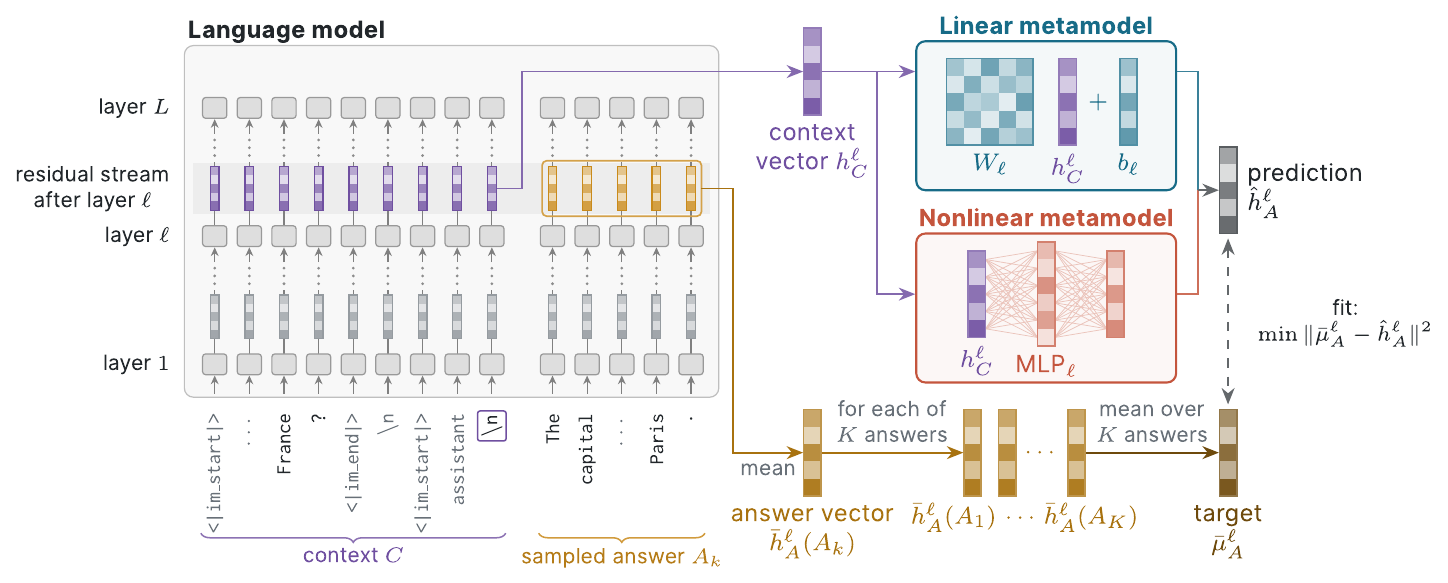
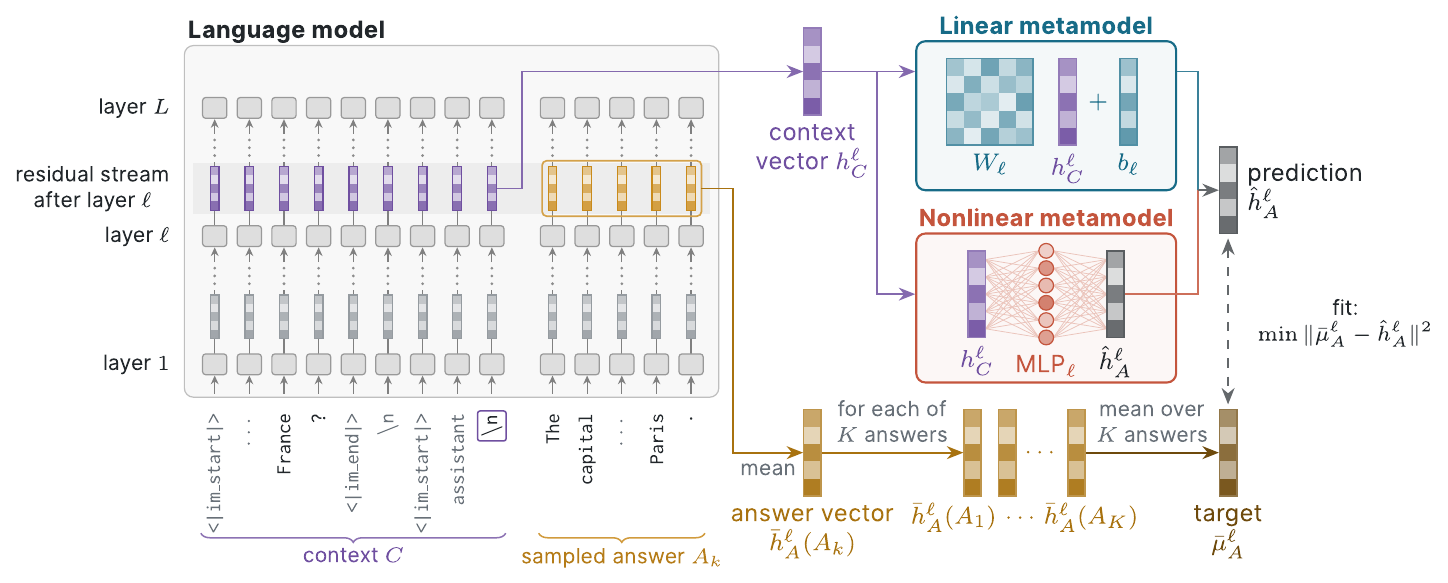
paper fig1 rev 16: MLP hidden units as circles, MLP output column = the prediction (TikZ source + preview PNG)
Generated with [Claude Code](https://claude.ai/code)
via [Happy](https://happy.engineering)

Changed region(s): [[0.6837, 0.4014, 0.808, 0.6484]]

diff --git a/docs/paper_context_answer_map/fig1_schematic.tex b/docs/paper_context_answer_map/fig1_schematic.tex
@@ -1,4 +1,4 @@
-% Figure 1: context-to-answer prediction pipeline (rev 15, 2026-09-03).
+% Figure 1: context-to-answer prediction pipeline (rev 16, 2026-09-03).
 % Compile standalone: pdflatex fig1_schematic.tex
 % THEN convert text to outlines before copying to Overleaf (REQUIRED):
 %   gs -q -dNOPAUSE -dBATCH -sDEVICE=pdfwrite -dNoOutputFonts -dCompatibilityLevel=1.5 \
@@ -29,9 +29,11 @@
 % over K) darkest #6E4A0C. Vectors outside the model use stronger cell shades.
 % Rev 15 (Thomas): the context vector forks into TWO metamodel boxes, linear (teal:
 % matrix W_l times h_C plus bias b_l) and nonlinear (terracotta: a small MLP glyph,
-% input column -> hidden column -> output column with dense connections). Both outputs
-% merge into one prediction (ink, branch-neutral), which is fit to the target. The
-% answer row sits below both boxes; the figure height is unchanged.
+% input column -> hidden layer of circular units -> output column, dense connections).
+% Rev 16 (Thomas): the MLP's output column IS the prediction: same ink color, same
+% symbol h-hat, wired directly to the merged prediction outside the box. Both branch
+% outputs merge into that one prediction, which is fit to the target. The answer row
+% sits below both boxes; the figure height is unchanged.
 \documentclass[tikz,border=4pt]{standalone}
 \usepackage[type1]{inter}
 \renewcommand{\familydefault}{\sfdefault}
@@ -61,16 +63,6 @@
   \node[inner sep=0pt, minimum width=0.20cm, minimum height=1.0cm] (#1) at (#2,#3) {};
 }
 \newcommand{\colvec}[4]{\colvecs{#1}{#2}{#3}{#4}{42,16,60,26,68}}
-% 6-cell column (the MLP hidden layer), 0.20 x 1.20 cm, centered at (x,y)
-\newcommand{\colvecsix}[4]{%
-  \begin{scope}[shift={(#2,#3)}]
-    \foreach \s [count=\r from 0] in {40,22,64,30,56,18} {
-      \fill[#4!\s] (-0.10,{0.60-(\r+1)*0.20}) rectangle (0.10,{0.60-\r*0.20});
-    }
-    \draw[#4!75, line width=0.5pt] (-0.10,-0.60) rectangle (0.10,0.60);
-  \end{scope}
-  \node[inner sep=0pt, minimum width=0.20cm, minimum height=1.2cm] (#1) at (#2,#3) {};
-}
 % ---- small residual-stream state inside the model: 5 SQUARE cells, 0.10 x 0.50 cm ---
 % \minivec{<x>}{<y>}{<color>}{<shade list>}{<outline>}
 \newcommand{\minivec}[5]{%
@@ -214,18 +206,24 @@
       minimum width=3.0cm, minimum height=1.72cm, inner sep=0pt] (nl) at (10.40,2.72) {};
 \node[lbl, text=terra, anchor=south, font=\fontsize{8}{9.5}\selectfont\bfseries]
   at (10.40,3.62) {Nonlinear metamodel};
-% dense connections first (drawn under the columns): input (5 cells) -> hidden (6) -> output (5)
+% dense connections first (drawn under the columns): input (5 cells) -> 6 hidden units -> output (5)
 \foreach \yi in {3.28,3.08,2.88,2.68,2.48} {
   \foreach \yh in {3.38,3.18,2.98,2.78,2.58,2.38} {
-    \draw[dense] (9.70,\yi) -- (10.30,\yh);
-    \draw[dense] (10.50,\yh) -- (11.10,\yi);
+    \draw[dense] (9.70,\yi) -- (10.315,\yh);
+    \draw[dense] (10.485,\yh) -- (11.10,\yi);
   }
 }
 \colvecs{mi}{9.60}{2.88}{ctx}{62,30,80,44,92}
 \node[lbl, text=ctx, anchor=north, inner sep=0.5pt] at (9.60,2.31) {$h_C^{\ell}$};
-\colvecsix{mh}{10.40}{2.88}{terra}
+% hidden layer: a column of units (circles); fills vary like activations
+\foreach \yh/\s in {3.38/28,3.18/62,2.98/40,2.78/74,2.58/34,2.38/56} {
+  \fill[terra!\s] (10.40,\yh) circle (0.085);
+  \draw[terra, line width=0.4pt] (10.40,\yh) circle (0.085);
+}
 \node[lbl, text=terra, anchor=north, inner sep=0.5pt] at (10.40,2.21) {MLP$_\ell$};
-\colvec{mo}{11.20}{2.88}{terra}
+% output column = the prediction: same color and symbol as h-hat outside the box
+\colvec{mo}{11.20}{2.88}{ink}
+\node[lbl, text=ink, anchor=north, inner sep=0.5pt] at (11.20,2.31) {$\hat h_A^{\ell}$};
 
 % --- fork: the context vector feeds both branches
 \draw[flow, ctx!85] (hc.east) -- (lin.west |- hc.east);
@@ -233,7 +231,7 @@
 
 % --- merge: both outputs give the prediction
 \draw[wire, teal!85] (lin.east |- 0,5.45) -- (12.15,5.45) -- (12.15,4.08);
-\draw[wire, terra!85] (nl.east |- 0,2.88) -- (12.15,2.88) -- (12.15,4.08);
+\draw[wire, terra!85] (mo.east) -- (12.15,2.88) -- (12.15,4.08);
 \colvec{hhat}{12.50}{4.08}{ink}
 \draw[flow] (12.15,4.08) -- (hhat.west);
 \node[lbl, anchor=west, align=left, inner sep=1pt] at (12.68,4.08) {prediction\\$\hat h_A^{\ell}$};
